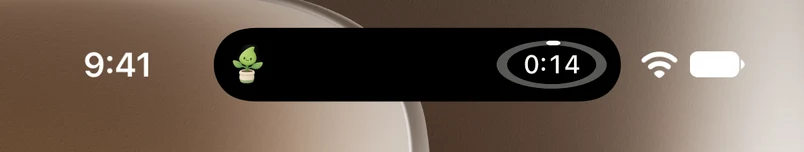
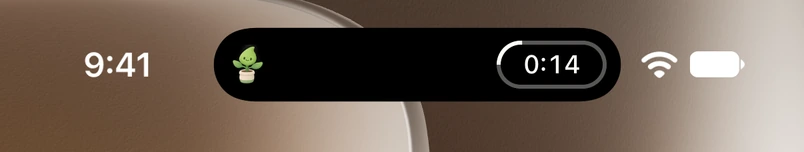
Refresh the Habby Dynamic Island screenshots

Changed region(s): [[0.5908, 0.2632, 0.7774, 0.6053]]

diff --git a/src/content/work/index.ts b/src/content/work/index.ts
@@ -400,12 +400,12 @@ export const works: Work[] = [
         layout: 'feature',
         image: {
           src: '/work/screenshots/habby-dynamic-island-expanded.webp',
-          alt: 'An expanded Walk timer in the Dynamic Island with Pause, Finish and Skip buttons.',
+          alt: 'An expanded Walk timer in the Dynamic Island with a progress track and Pause, Finish and Skip buttons.',
           width: 804,
           height: 298,
         },
         callout: {
-          description: 'See your Walk timer at a glance. Touch and hold it for controls.',
+          description: 'Watch your Walk timer fill as you go. Touch and hold it for controls.',
         },
       },
       {
@@ -483,12 +483,12 @@ export const works: Work[] = [
         title: 'Timer in the Dynamic Island',
         image: {
           src: '/work/screenshots/habby-dynamic-island-compact.webp',
-          alt: 'The Habby mascot and a running timer in the iPhone’s compact Dynamic Island.',
+          alt: 'Habby’s mascot and a timer with a partially filled progress track in the compact Dynamic Island.',
           width: 804,
           height: 152,
         },
         callout: {
-          description: 'Glance at a running habit timer while using your iPhone.',
+          description: 'See your timer and its progress at a glance while using your iPhone.',
         },
       },
       {

diff --git a/docs/evidence/product-showcases.md b/docs/evidence/product-showcases.md
@@ -20,6 +20,8 @@ The Habby dialog opens with Live Activities on the Lock Screen, Dynamic Island, 
 
 Eight WebPs are byte-for-byte copies of the app screenshots published on [Habby's site](https://usehabby.com/) on 16 November 2026. The Today, water and week screenshots map to `/images/app/2026-11-16-{today,water,week}.webp`. The other five website images keep their source filenames after the local `habby-` prefix. Each screenshot links to its full-size copy.
 
+The compact and expanded Dynamic Island images use the published versions with the timer's running progress track.
+
 `habby-sleep-preview.webp` preserves the full 1206 × 2622 iPhone 17 Pro simulator capture from Habby development revision `13d6a271`. It shows a sample manual bedtime check-in, which the gallery labels as a preview. Decoded pixels match the original PNG.
 
 ### CYOBot robot overlays
